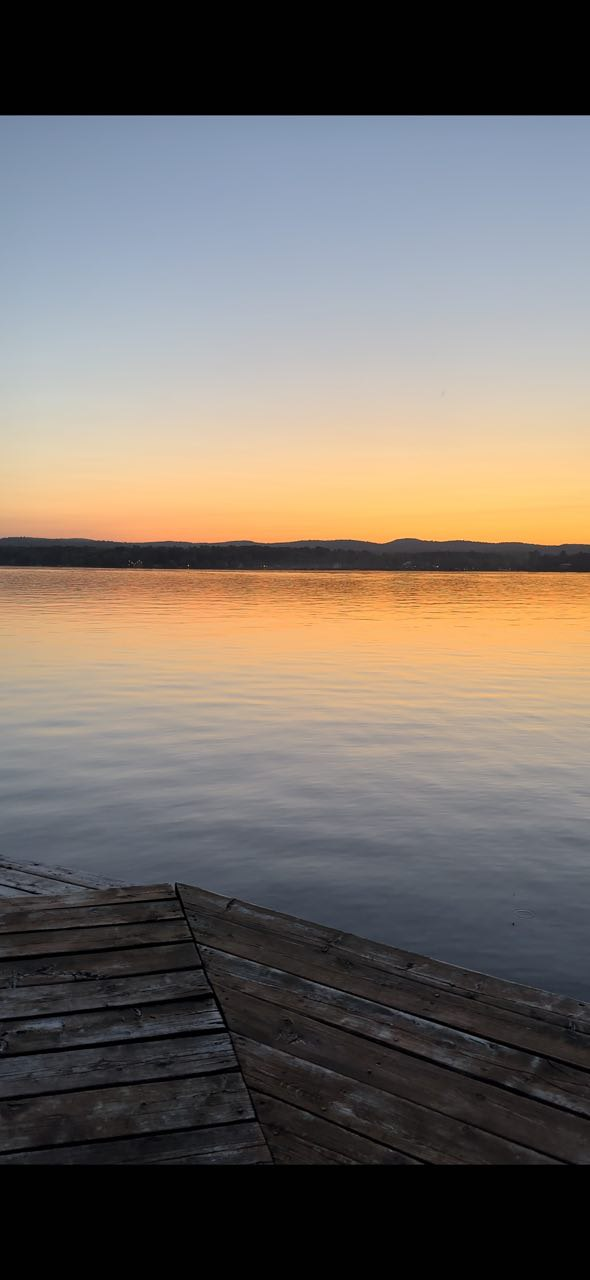
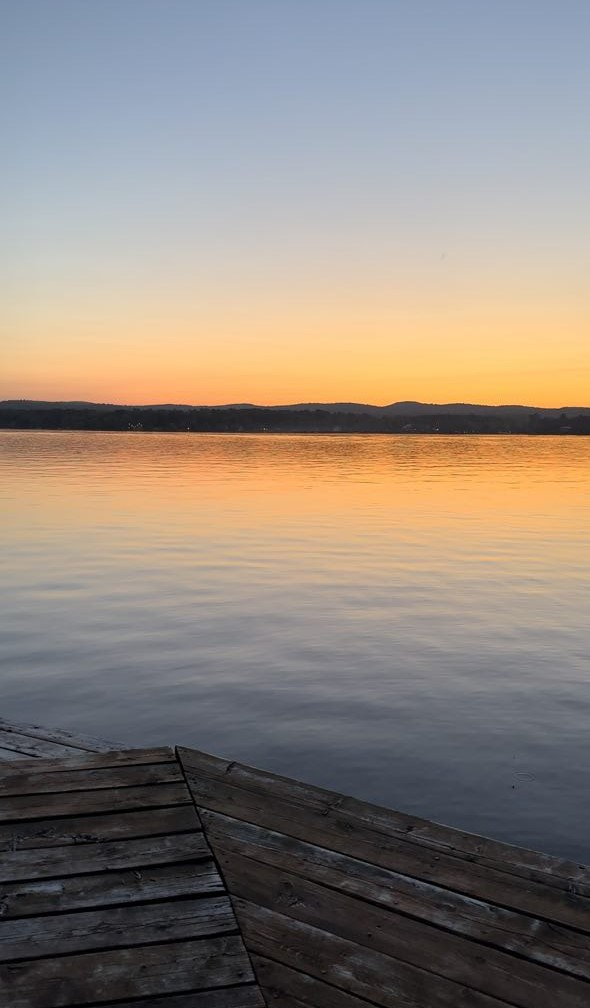
Completed Top Section: Image background and Header Text with dropbown action button

diff --git a/lib/features/personalization/screens/fe-interview-task/widgets/background_with_stack_text.dart b/lib/features/personalization/screens/fe-interview-task/widgets/background_with_stack_text.dart
@@ -1,0 +1,78 @@
+import 'package:flutter/material.dart';
+
+import '../../../../../common/widgets/texts/stroll_header_text.dart';
+import '../../../../../utils/constants/colors.dart';
+import '../../../../../utils/constants/image_strings.dart';
+import '../../../../../utils/device/device_utility.dart';
+
+class StrollHeaderSection extends StatelessWidget {
+  const StrollHeaderSection({
+    super.key,
+  });
+
+  @override
+  Widget build(BuildContext context) {
+    return Stack(
+      children: [
+        // Background Image
+        Stack(
+          children: [
+            Container(
+              height: StrollDeviceUtils.getScreenHeight(context) * 0.6,
+              decoration: BoxDecoration(
+                image: DecorationImage(
+                  image: AssetImage(StrollImages.sunSetBackground2),
+                  fit: BoxFit.fill,
+                ),
+              ),
+              child: Column(
+                mainAxisAlignment: MainAxisAlignment.spaceBetween,
+                children: [
+                  // Top shadow overlay
+                  Align(
+                    alignment: Alignment.topCenter,
+                    child: Container(
+                      height: 180,
+                      decoration: BoxDecoration(
+                        gradient: LinearGradient(
+                          begin: Alignment.topCenter,
+                          end: Alignment.bottomCenter,
+                          colors: [
+                            StrollColors.darkShadow,
+                            Colors.transparent,
+                          ],
+                        ),
+                      ),
+                    ),
+                  ),
+                  // Bottom shadow overlay
+                  Align(
+                    alignment: Alignment.bottomCenter,
+                    child: Container(
+                      height: 280,
+                      decoration: BoxDecoration(
+                        gradient: LinearGradient(
+                          begin: Alignment.bottomCenter,
+                          end: Alignment.topCenter,
+                          colors: [
+                            StrollColors.dark,
+                            Colors.transparent,
+                          ],
+                        ),
+                      ),
+                    ),
+                  ),
+                ],
+              ),
+            ),
+          ],
+        ),
+
+        /// Content Overlay
+        SafeArea(
+          child: StrollHeaderText(),
+        ),
+      ],
+    );
+  }
+}

diff --git a/lib/features/personalization/screens/fe-interview-task/fe-interview-task.dart b/lib/features/personalization/screens/fe-interview-task/fe-interview-task.dart
@@ -1,4 +1,4 @@
-import 'package:feinterview/utils/constants/image_strings.dart';
+import 'package:feinterview/features/personalization/screens/fe-interview-task/widgets/background_with_stack_text.dart';
 import 'package:flutter/material.dart';
 
 class FrontendInterviewTask extends StatelessWidget {
@@ -10,58 +10,8 @@ class FrontendInterviewTask extends StatelessWidget {
       backgroundColor: Colors.black,
       body: Stack(
         children: [
-          // Background Image
-          Container(
-            decoration: BoxDecoration(
-              image: DecorationImage(
-                image: AssetImage(StrollImages.sunSetBackground),
-                fit: BoxFit.cover,
-              ),
-            ),
-          ),
-          // Content Overlay
-          SafeArea(
-            child: Column(
-              crossAxisAlignment: CrossAxisAlignment.center,
-              children: [
-                // Top Section
-                Padding(
-                  padding: const EdgeInsets.symmetric(
-                      horizontal: 20.0, vertical: 10.0),
-                  child: Row(
-                    mainAxisAlignment: MainAxisAlignment.spaceBetween,
-                    children: [
-                      Text(
-                        'Stroll Bonfire',
-                        style: TextStyle(
-                          fontSize: 24,
-                          color: Colors.white,
-                          fontWeight: FontWeight.bold,
-                        ),
-                      ),
-                      Row(
-                        children: [
-                          Icon(Icons.access_time, color: Colors.white),
-                          SizedBox(width: 5),
-                          Text(
-                            '22h 00m',
-                            style: TextStyle(color: Colors.white),
-                          ),
-                          SizedBox(width: 10),
-                          Icon(Icons.people, color: Colors.white),
-                          SizedBox(width: 5),
-                          Text(
-                            '103',
-                            style: TextStyle(color: Colors.white),
-                          ),
-                        ],
-                      ),
-                    ],
-                  ),
-                ),
-              ],
-            ),
-          ),
+          StrollHeaderSection(),
+          // StrollUserSubHeader(),
         ],
       ),
     );

diff --git a/lib/common/widgets/texts/stroll_header_text.dart b/lib/common/widgets/texts/stroll_header_text.dart
@@ -1,0 +1,52 @@
+import 'package:feinterview/common/widgets/texts/stroll_subheader_text.dart';
+import 'package:feinterview/utils/constants/colors.dart';
+import 'package:feinterview/utils/constants/sizes.dart';
+import 'package:flutter/material.dart';
+
+class StrollHeaderText extends StatelessWidget {
+  const StrollHeaderText({
+    super.key,
+  });
+
+  @override
+  Widget build(BuildContext context) {
+    return Column(
+      crossAxisAlignment: CrossAxisAlignment.center,
+      children: [
+        SizedBox(height: StrollSizes.md),
+        // Top Section
+        Padding(
+          padding: const EdgeInsets.symmetric(horizontal: 20.0, vertical: 10.0),
+          child: Column(
+            mainAxisAlignment: MainAxisAlignment.center,
+            children: [
+              Row(
+                crossAxisAlignment: CrossAxisAlignment.center,
+                mainAxisAlignment: MainAxisAlignment.center,
+                children: [
+                  Text(
+                    'Stroll Bonfire',
+                    style: TextStyle(
+                      fontSize: StrollSizes.fontSizeXl,
+                      color: StrollColors.primary,
+                      fontWeight: FontWeight.w700,
+                    ),
+                  ),
+                  SizedBox(width: StrollSizes.xs),
+                  InkWell(
+                    onTap: () {},
+                    child: Icon(
+                      Icons.keyboard_arrow_down,
+                      color: StrollColors.primary,
+                    ),
+                  )
+                ],
+              ),
+              StrollSubHeaderText(),
+            ],
+          ),
+        ),
+      ],
+    );
+  }
+}

diff --git a/lib/common/widgets/texts/stroll_subheader_text.dart b/lib/common/widgets/texts/stroll_subheader_text.dart
@@ -1,0 +1,51 @@
+import 'package:feinterview/utils/constants/image_strings.dart';
+import 'package:feinterview/utils/constants/sizes.dart';
+import 'package:flutter/material.dart';
+
+import '../images/png_icon.dart';
+
+class StrollSubHeaderText extends StatelessWidget {
+  const StrollSubHeaderText({
+    super.key,
+  });
+
+  @override
+  Widget build(BuildContext context) {
+    return Row(
+      mainAxisAlignment: MainAxisAlignment.center,
+      children: [
+        StrollPngIcon(
+          assetPath: StrollImages.alarmClock,
+          size: StrollSizes.md,
+        ),
+        SizedBox(
+          width: StrollSizes.xs / 2,
+        ),
+        Text(
+          '22h 00m',
+          style: TextStyle(
+            color: Colors.white,
+            fontWeight: FontWeight.bold,
+          ),
+        ),
+        SizedBox(
+          width: StrollSizes.sm,
+        ),
+        StrollPngIcon(
+          assetPath: StrollImages.person,
+          size: StrollSizes.md,
+        ),
+        SizedBox(
+          width: StrollSizes.xs / 2,
+        ),
+        Text(
+          '103',
+          style: TextStyle(
+            color: Colors.white,
+            fontWeight: FontWeight.bold,
+          ),
+        ),
+      ],
+    );
+  }
+}

diff --git a/lib/utils/constants/colors.dart b/lib/utils/constants/colors.dart
@@ -1,0 +1,28 @@
+import 'package:flutter/material.dart';
+
+class StrollColors {
+  StrollColors._();
+
+  // App Basic Colors
+  static const Color primary = Color(0xccccc4ff);
+  static const Color secondary = Color(0xFFCFF8FF);
+  static const Color accent = Color(0xCCCCC8FF);
+
+  // Shadow
+  static const Color shadow = Color(0xCC9D89E1);
+  static const Color darkShadow = Color(0xCC242427);
+
+  // Mode
+  static const Color light = Colors.white;
+  static const Color dark = Colors.black;
+
+  // Gradient colors
+  static Gradient linerGradient = LinearGradient(
+      begin: Alignment(0.0, 0.0),
+      end: Alignment(0.707, -0.707),
+      colors: [
+        Color(0xCCCCC8FF),
+        Color(0xCCCCC8FF),
+        Color(0xCCCCC8FF),
+      ]);
+}

diff --git a/lib/utils/constants/image_strings.dart b/lib/utils/constants/image_strings.dart
@@ -1,9 +1,13 @@
 class StrollImages {
   // -- App Backgrounds
   static const String sunSetBackground = "assets/backgrounds/sunset.jpg";
-  static const String sunSetBackground2 = "assets/backgrounds/sunset_2.jpg";
+  static const String sunSetBackground2 = "assets/backgrounds/sunset_2.jpeg";
 
   // -- App Avatars
   static const String meAvatar = "assets/avatars/me.png";
   static const String ladyAvatar = "assets/avatars/lady.jpeg";
+
+  // -- App Icons
+  static const String person = "assets/icons/person.png";
+  static const String alarmClock = "assets/icons/alarm_clock.png";
 }

diff --git a/lib/common/widgets/images/png_icon.dart b/lib/common/widgets/images/png_icon.dart
@@ -1,0 +1,22 @@
+import 'package:flutter/material.dart';
+
+class StrollPngIcon extends StatelessWidget {
+  final String assetPath;
+  final double size;
+
+  const StrollPngIcon({
+    super.key,
+    required this.assetPath,
+    this.size = 24,
+  });
+
+  @override
+  Widget build(BuildContext context) {
+    return Image.asset(
+      assetPath,
+      fit: BoxFit.contain,
+      height: size,
+      width: size,
+    );
+  }
+}

diff --git a/lib/utils/constants/sizes.dart b/lib/utils/constants/sizes.dart
@@ -16,6 +16,7 @@ class StrollSizes {
   static const double fontSizeSm = 14.0;
   static const double fontSizeMd = 16.0;
   static const double fontSizeLg = 18.0;
+  static const double fontSizeXl = 36.0;
 
   // Button sizes
   static const double buttonHeight = 18.0;

diff --git a/lib/features/personalization/screens/fe-interview-task/widgets/user_subheader.dart b/lib/features/personalization/screens/fe-interview-task/widgets/user_subheader.dart
@@ -1,0 +1,10 @@
+import 'package:flutter/material.dart';
+
+class StrollUserSubHeader extends StatelessWidget {
+  const StrollUserSubHeader({super.key});
+
+  @override
+  Widget build(BuildContext context) {
+    return const Placeholder();
+  }
+}
